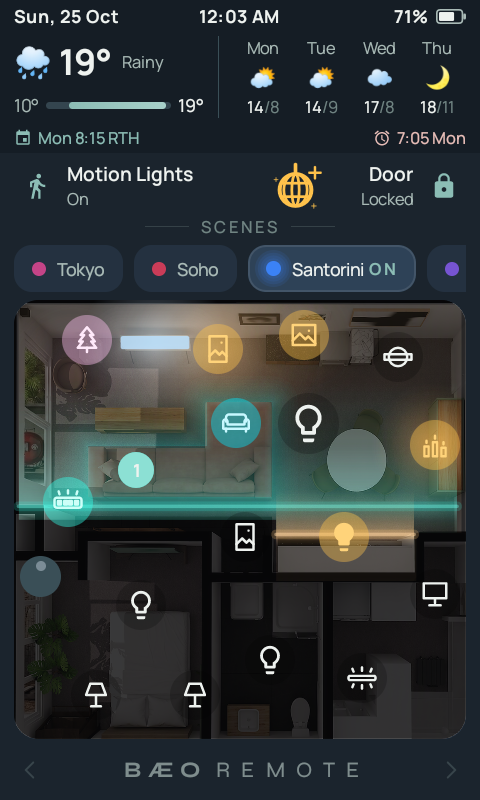
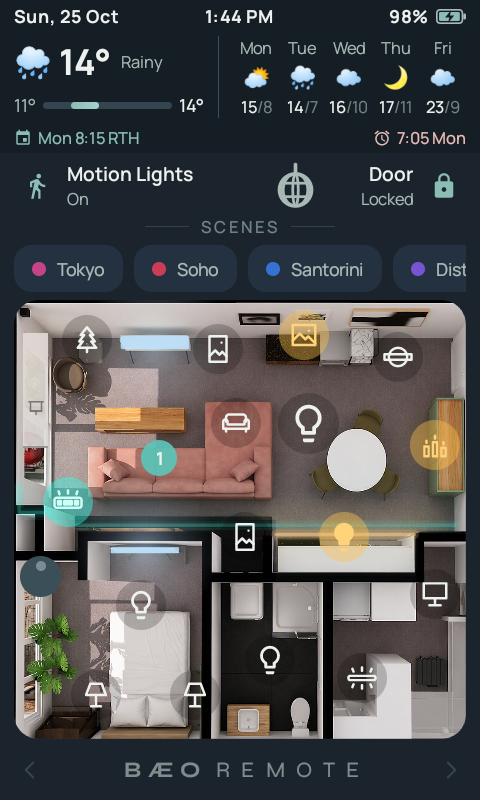
README: doorbell popup, blinds and mirror ball on Main
New intercom screenshot (the person at the door blurred) and a fresh
Main screenshot showing the blind down over the balcony door with its
icon. The floorplan section covers the blinds and mirror ball; a new
Doorbell section covers the popup.

diff --git a/README.md b/README.md
@@ -74,6 +74,8 @@ The floorplan follows the sun and every light in the flat. As the sun drops, a s
 * **Sun-synced shading:** the shade eases in through civil twilight, from sun.sun's elevation. Light pools are faint by day and come up with the dark.
 * **Lights as they look:** pools take each light's colour and brightness, with a hot core and a soft tail. The Club LED is a cove strip on a rail under the ceiling, so it draws as a dim rail with a wash of its colour spilling into the room (`glow_line`), stopping at the walls. Hidden strips halo what they sit under or behind (`glow_outline`): the sofa's underglow and the Hue Play bars round the TV. The kitchen strips light the counter.
 * **Screens:** the TV lights up on the plan while it is on, including on the PC input (`also_on`).
+* **Blinds:** the balcony door's blind is drawn over the glass as far down as it really is, a shade lighter than the wall, and darkens with the room at night (`blinds`). The grey blind icon on it toggles it.
+* **Mirror ball:** while it spins, warm specks turn slowly round the main room (`mirror_ball`), on a 15 fps clock that only runs while Main is on screen.
 * **Interactive Control:** Tap any bulb to toggle room lighting, or long-press to open the full-screen brightness and color tuning slider.
 * **mmWave Radar Presence:** Real-time target tracking dots driven by LD2450 sensors plotted over the apartment layout.
 
@@ -92,6 +94,12 @@ The floorplan follows the sun and every light in the flat. As the sun drops, a s
 * **Physical Key Pass-Through:** Configured hardware keys (`VOLUME_UP`, `VOLUME_DOWN`, `MUTE`, `LIGHT`, `CURTAIN`, `SCENE`, `AC`, `VOICE`) wake the screen and immediately execute on the very first press without being swallowed.
 
 ---
+
+### Doorbell
+
+When the building intercom rings, a popup shows who is at the entrance with **Let in**, which calls the lift and opens the main door. It wakes the screen and comes to the front like an alarm, refreshes the snapshot while it is up, and clears when the call ends, after 90 seconds, or on Hide (`doorbell` in `dashboard.json`).
+
+<img src="screenshots/intercom.png" alt="Doorbell popup with the entrance snapshot and Let in" width="240">
 
 ### Additional Feature Screenshots
 
